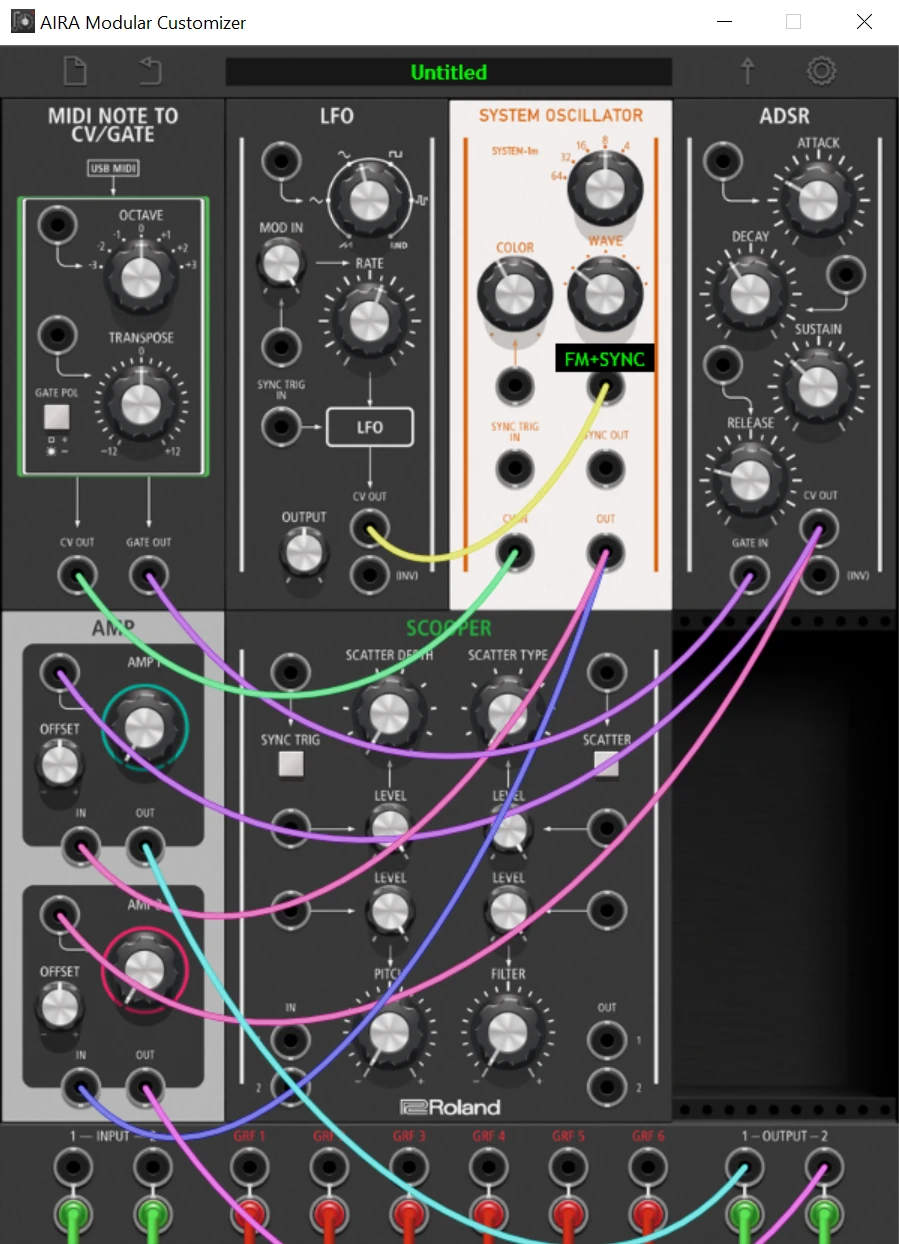
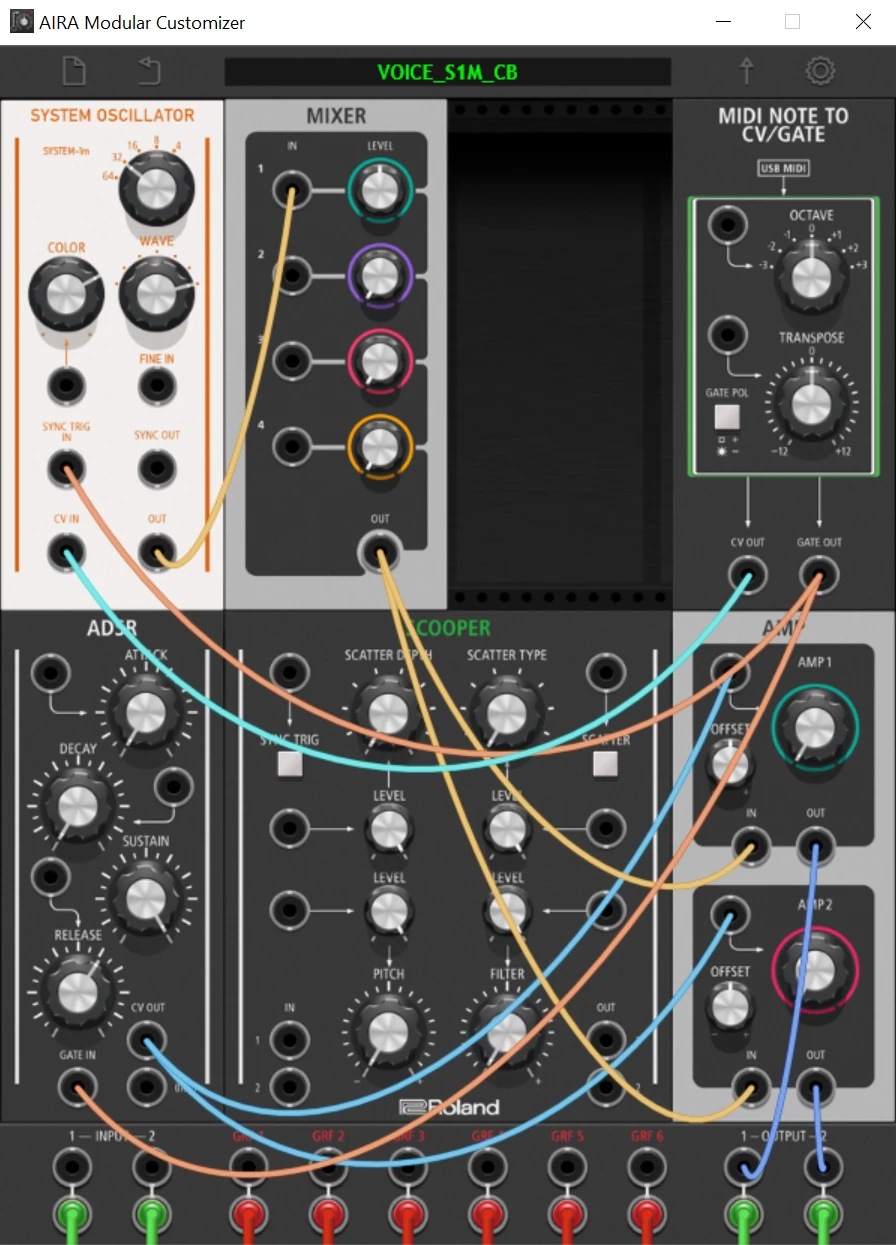
Replace README screenshot with the VOICE_S1M_CB patch

diff --git a/README.md b/README.md
@@ -4,7 +4,7 @@ This custom firmware brings the SYSTEM-1m's oscillator waves to the SCOOPER. In 
 
 It's unofficial: not made, endorsed or supported by Roland. Flash at your own risk.
 
-![The SYSTEM OSCILLATOR in a Customizer patch, WAVE on FM+SYNC, with an LFO on FINE IN](docs/img/customizer-patch.png)
+![The VOICE_S1M_CB preset in the Customizer: the MIDI gate goes into SYNC TRIG IN to strike the cowbell](docs/img/customizer-patch.png)
 
 ## What you get
 
